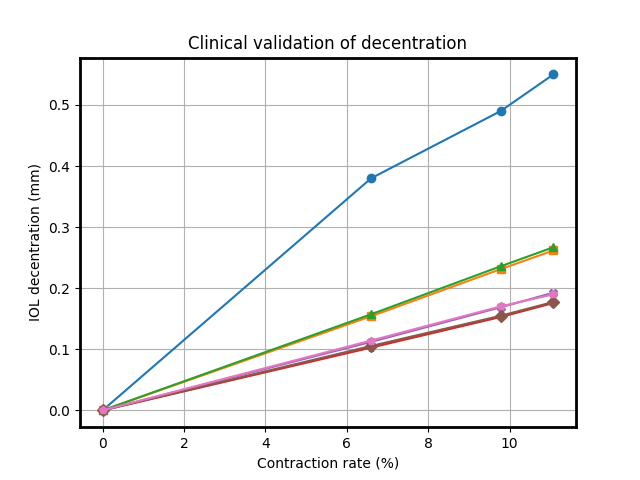
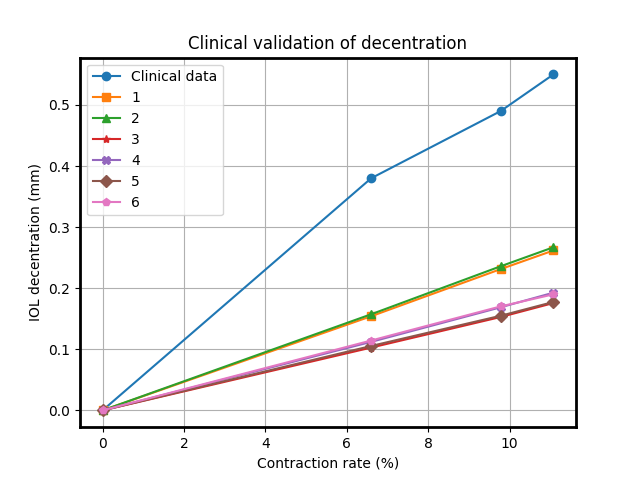
added a legend

Changed region(s): [[0.125, 0.125, 0.3438, 0.4375], [0.2812, 0.3438, 0.3125, 0.375], [0.2812, 0.2188, 0.3125, 0.25]]

diff --git a/plot/plot.py b/plot/plot.py
@@ -9,6 +9,7 @@ mpl.rcParams['axes.linewidth'] = 2
 def plot_data(x_coordinates, y_coordinates):
   # set the different markers we want to use for the data points.
   markers = ['o', 's', '^', '*', 'X', 'D', 'p']
+  names = ["Clinical data", 1, 2, 3, 4, 5, 6]
 
   # plot each line
   for i in range(len(y_coordinates)):
@@ -19,6 +20,7 @@ def plot_data(x_coordinates, y_coordinates):
   plt.xlabel("Contraction rate (%)")
   plt.ylabel("IOL decentration (mm)")
   plt.grid()
+  plt.legend(names)
   plt.savefig("plot.png")
   plt.close()
 
